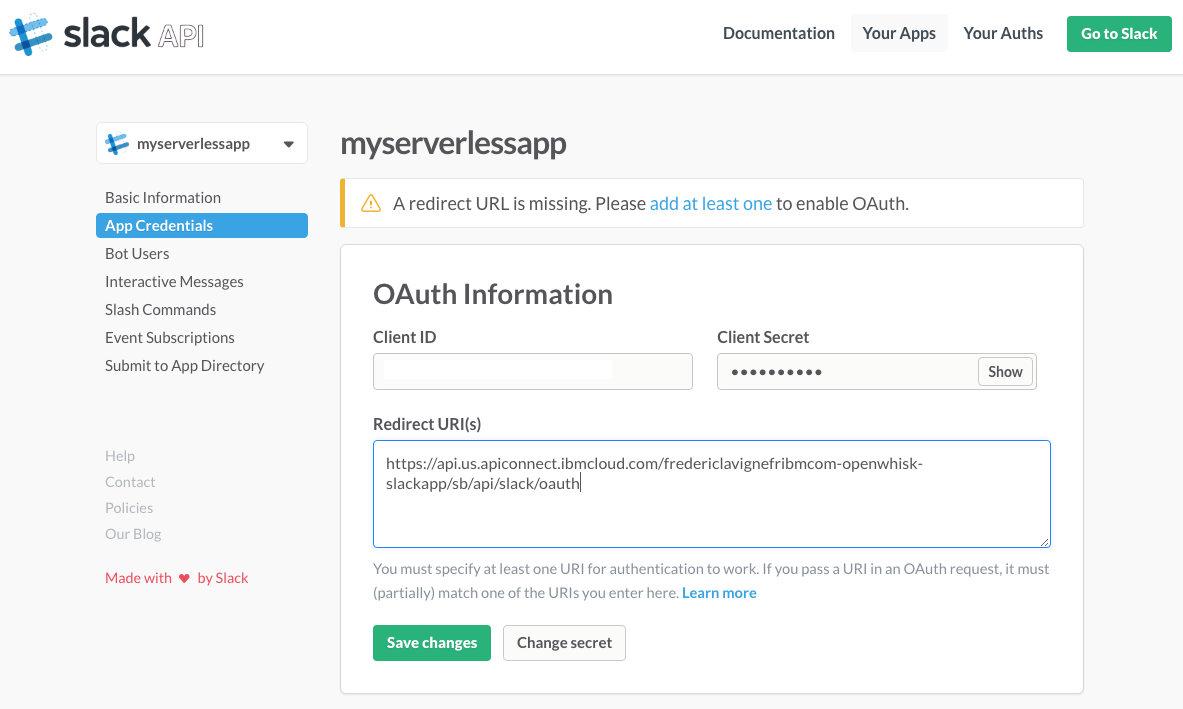
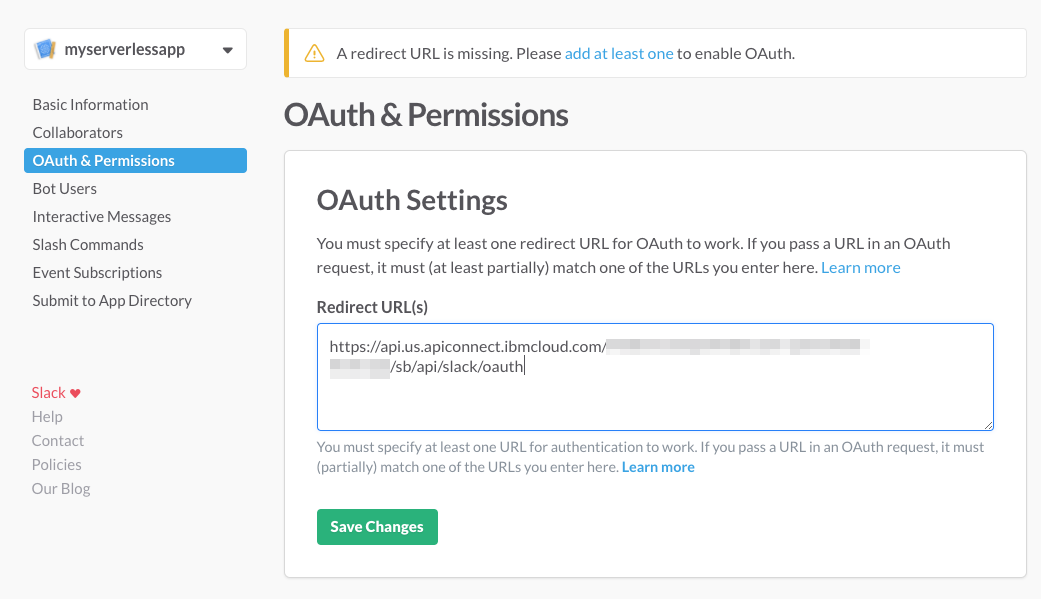
updated instructions to reflect latest Slack UI

diff --git a/README.md b/README.md
@@ -7,7 +7,7 @@ and how to expose these actions with API Connect.
   <img src="xdocs/app-created.png" width="200"/>
   <img src="xdocs/team-botchat.png" width="200"/>
   <img src="xdocs/team-customcommandoutput.png" width="200"/>
-  
+
 ## Overview
 
 Built using IBM Bluemix, the app uses:
@@ -72,7 +72,7 @@ With these steps we will deploy the actions implementing our Slack app.
   ```
   git clone https://github.com/IBM-Bluemix/openwhisk-slackapp.git
   ```
-  
+
 * or Download and extract the source code from
 [this archive](https://github.com/IBM-Bluemix/openwhisk-slackapp/archive/master.zip)
 
@@ -91,7 +91,7 @@ With these steps we will deploy the actions implementing our Slack app.
 1. Replace the default JSON with the content of the file [cloudant-designs.json](cloudant-designs.json)
 
   ![](xdocs/cloudant-adddesigndoc.png)
-  
+
 ### Deploy OpenWhisk Actions
 
 #### Linux, OS X
@@ -110,7 +110,7 @@ in `local.env` to the corresponding value (url). Make sure you take the full url
   ```
   wsk list
   ```
-  
+
   This shows the packages, actions, triggers and rules currently deployed in your OpenWhisk namespace.
 
 1. Create the actions:
@@ -120,7 +120,7 @@ in `local.env` to the corresponding value (url). Make sure you take the full url
   ```
 
   If all goes well it outputs:
-  
+
   ```
   Current namespace is <the-namespace-where-the-actions-are-deployed>.
   Adding app registration command
@@ -151,7 +151,7 @@ in `local.cmd` to the corresponding value (url). Make sure you take the full url
   ```
   wsk list
   ```
-  
+
   This shows the packages, actions, triggers and rules currently deployed in your OpenWhisk namespace.
 
 1. Create the actions:
@@ -161,7 +161,7 @@ in `local.cmd` to the corresponding value (url). Make sure you take the full url
   ```
 
   If all goes well it outputs:
-  
+
   ```
   whisk namespace       <the-namespace-where-the-actions-are-deployed>.
   Adding app registration command
@@ -175,7 +175,7 @@ in `local.cmd` to the corresponding value (url). Make sure you take the full url
   Note: the script can also be used to *--uninstall* the OpenWhisk artifacts to
   *--update* the artifacts if you change the action code, or simply with *--env*
   to show the environment variables set in **local.cmd**.
-  
+
 Our OpenWhisk actions are ready.
 
 ## Create the Slack app
@@ -184,9 +184,7 @@ Our OpenWhisk actions are ready.
 
 1. Proceed to the [new app creation](https://api.slack.com/apps/new)
 
-1. Type a name for your app, a short description, a long description. Leave other fields empty.
-
-  ![](xdocs/app-new.png)
+1. Type a name for your app, select your Slack team.
 
 1. Click Create
 
@@ -198,12 +196,12 @@ Our OpenWhisk actions are ready.
 
   ![](xdocs/app-addbot.png)
 
-1. Click **Add a bot to this app**
+1. Click **Add a Bot User**
 
-1. Name your bot and click **Add bot user**
+1. Name your bot and click **Add Bot User**
 
   ![](xdocs/app-botname.png)
-  
+
 ### Add an Event Subscription
 
 1. Go to the **Event Subscriptions** section of your app
@@ -213,7 +211,7 @@ Our OpenWhisk actions are ready.
 1. Add a new Bot User Event for **message.im**
 
   ![](xdocs/app-addbotevent.png)
-  
+
   This allows us to react to direct messages sent to a bot.
   We could select more event type but for our simple app will only deal with this one today.
 
@@ -244,7 +242,7 @@ specifically the App Credentials (client ID, client secret and verification toke
 
   ![](xdocs/apiconnect-switch-to-draft.png)
 
-1. Import the app API into API Connect
+1. Import an existing OpenAPI into API Connect
 
   ![](xdocs/apiconnect-drafts-import-openapi.png)
 
@@ -263,23 +261,23 @@ specifically the App Credentials (client ID, client secret and verification toke
 1. Select the Properties section
 
   ![](xdocs/apiconnect-api-properties.png)
-  
+
   1. Set the OpenWhisk username and OpenWhisk password.
   You can find these credentials by running ```wsk property get```
   and looking at the whisk auth property.
   Everything before the **:** is your username, everything after is the password.
-  
+
   ![](xdocs/apiconnect-api-setproperty.png)
 
   1. Set the OpenWhisk namespace where the actions where deployed.
   Find it with ```wsk property get --namespace```
-  
+
   1. Set the Slack Client ID. Find it in the **App Credentials** in Slack.
-  
+
   1. Set the Slack Client Secret. Find it in the **App Credentials** in Slack.
-  
+
   1. Set the Slack Verification Token. Find it in the **App Credentials** in Slack.
-  
+
 1. Save the API Definition using the Save icon in top right corner.
 
 1. Generate a default product from this API.
@@ -312,7 +310,7 @@ specifically the App Credentials (client ID, client secret and verification toke
 
 ### Set the callback URL for authentication
 
-1. Under App Credentials, add the URI for the authentication of your app.
+1. Under OAuth and Permissions, add the URI for the authentication of your app.
 This URI will be called when a user installs your application in his team.
 The value is the API Endpoint Base URL (retrieved earlier)
 followed by /api/slack/oauth such as:
@@ -322,7 +320,7 @@ followed by /api/slack/oauth such as:
   ```
 
   ![](xdocs/app-setoauth.png)
-  
+
 1. Click **Save Changes**
 
 ### Set the callback URL to receive events
@@ -342,11 +340,9 @@ API Endpoint Base URL followed by /api/slack/event. Such as:
 
   ![](xdocs/app-enableeventsub.png)
 
-1. Save Changes
-
 ### Create a new command
 
-1. Under Slash Commands, **Create new command**
+1. Under Slash Commands, **Create New Command**
 
   ![](xdocs/app-newcommand.png)
 
@@ -355,13 +351,13 @@ API Endpoint Base URL followed by /api/slack/event. Such as:
   1. Command: **/myserverlessapp**
 
   1. Request URL: API Endpoint Base URL followed by /api/slack/command such as:
-  
+
     ```
     https://api.us.apiconnect.ibmcloud.com/yourorg-yourspace/sb/api/slack/command
     ```
-  
+
   1. Short Description: **A test command**
-  
+
   1. Usage Hint: **[param1] [param2]**
 
   ![](xdocs/app-commandsettings.png)
@@ -379,17 +375,19 @@ Our app is finally ready to be installed!
   ```
 
   Leave it running. Actions triggered by Slack will show up there
-  
+
 1. Go to [Slack Add Button page](https://api.slack.com/docs/slack-button)
 
 1. Scroll down to the **Add the Slack button** section
 
 1. Pick you app from the dropdown list
 
-1. Uncheck incoming webhook, check commands and bot
+1. **Uncheck incoming webhook**
+
+1. **Check commands and bot**
 
   ![](xdocs/app-addtoslack.png)
-  
+
 1. Press **Add to Slack**
 
 1. Select your team
@@ -402,12 +400,12 @@ Our app is finally ready to be installed!
 
   After a few seconds, the app is installed. You should see logs appearing in the OpenWhisk activation
   polling as Slack will be sending the registration info we will use later to interact with Slack channels and users.
-  
+
   ![](xdocs/app-installsuccess.png)
 
   This is a response coming from our API Connect flow.
   Ideally you would redirect to another page once the registration is completed.
-  
+
 ## Test the integration
 
 1. Go into your team in Slack
@@ -415,11 +413,11 @@ Our app is finally ready to be installed!
 1. Send a direct message to our new bot friend
 
   ![](xdocs/team-newbot.png)
-  
+
   Note: you will notice the bot appears offline.
   This is a current issue with Slack when using the new Events API.
   [The Slack team is aware and working on a fix](https://twitter.com/l2fprod/status/762649353601318912).
-  
+
   ![](xdocs/team-startchatwithbot.png)
 
 1. The bot replies
@@ -480,14 +478,14 @@ It defines 3 operations:
   * The **ignore myself** filters bot_message. It is a shortcut for this app to not have to deal with its own message or messages from other integrations.
   * The **set-event** invokes the event processing action but first it checks if the event token is the verification token issued by Slack.
   * Other events are ignored.
-  
+
 * **POST /slack/command**
 
   * Called by Slack when someone triggers a custom command
   * Slack posts the command arguments as *application/x-www-form-urlencoded*.
   * **form-to-json** converts the form parameters to a JSON object for consumption by the remaining flow.
   * after checking the token, the command processing action is invoked.
-  
+
 ## Contribute
 
 Please create a pull request with your desired changes.
